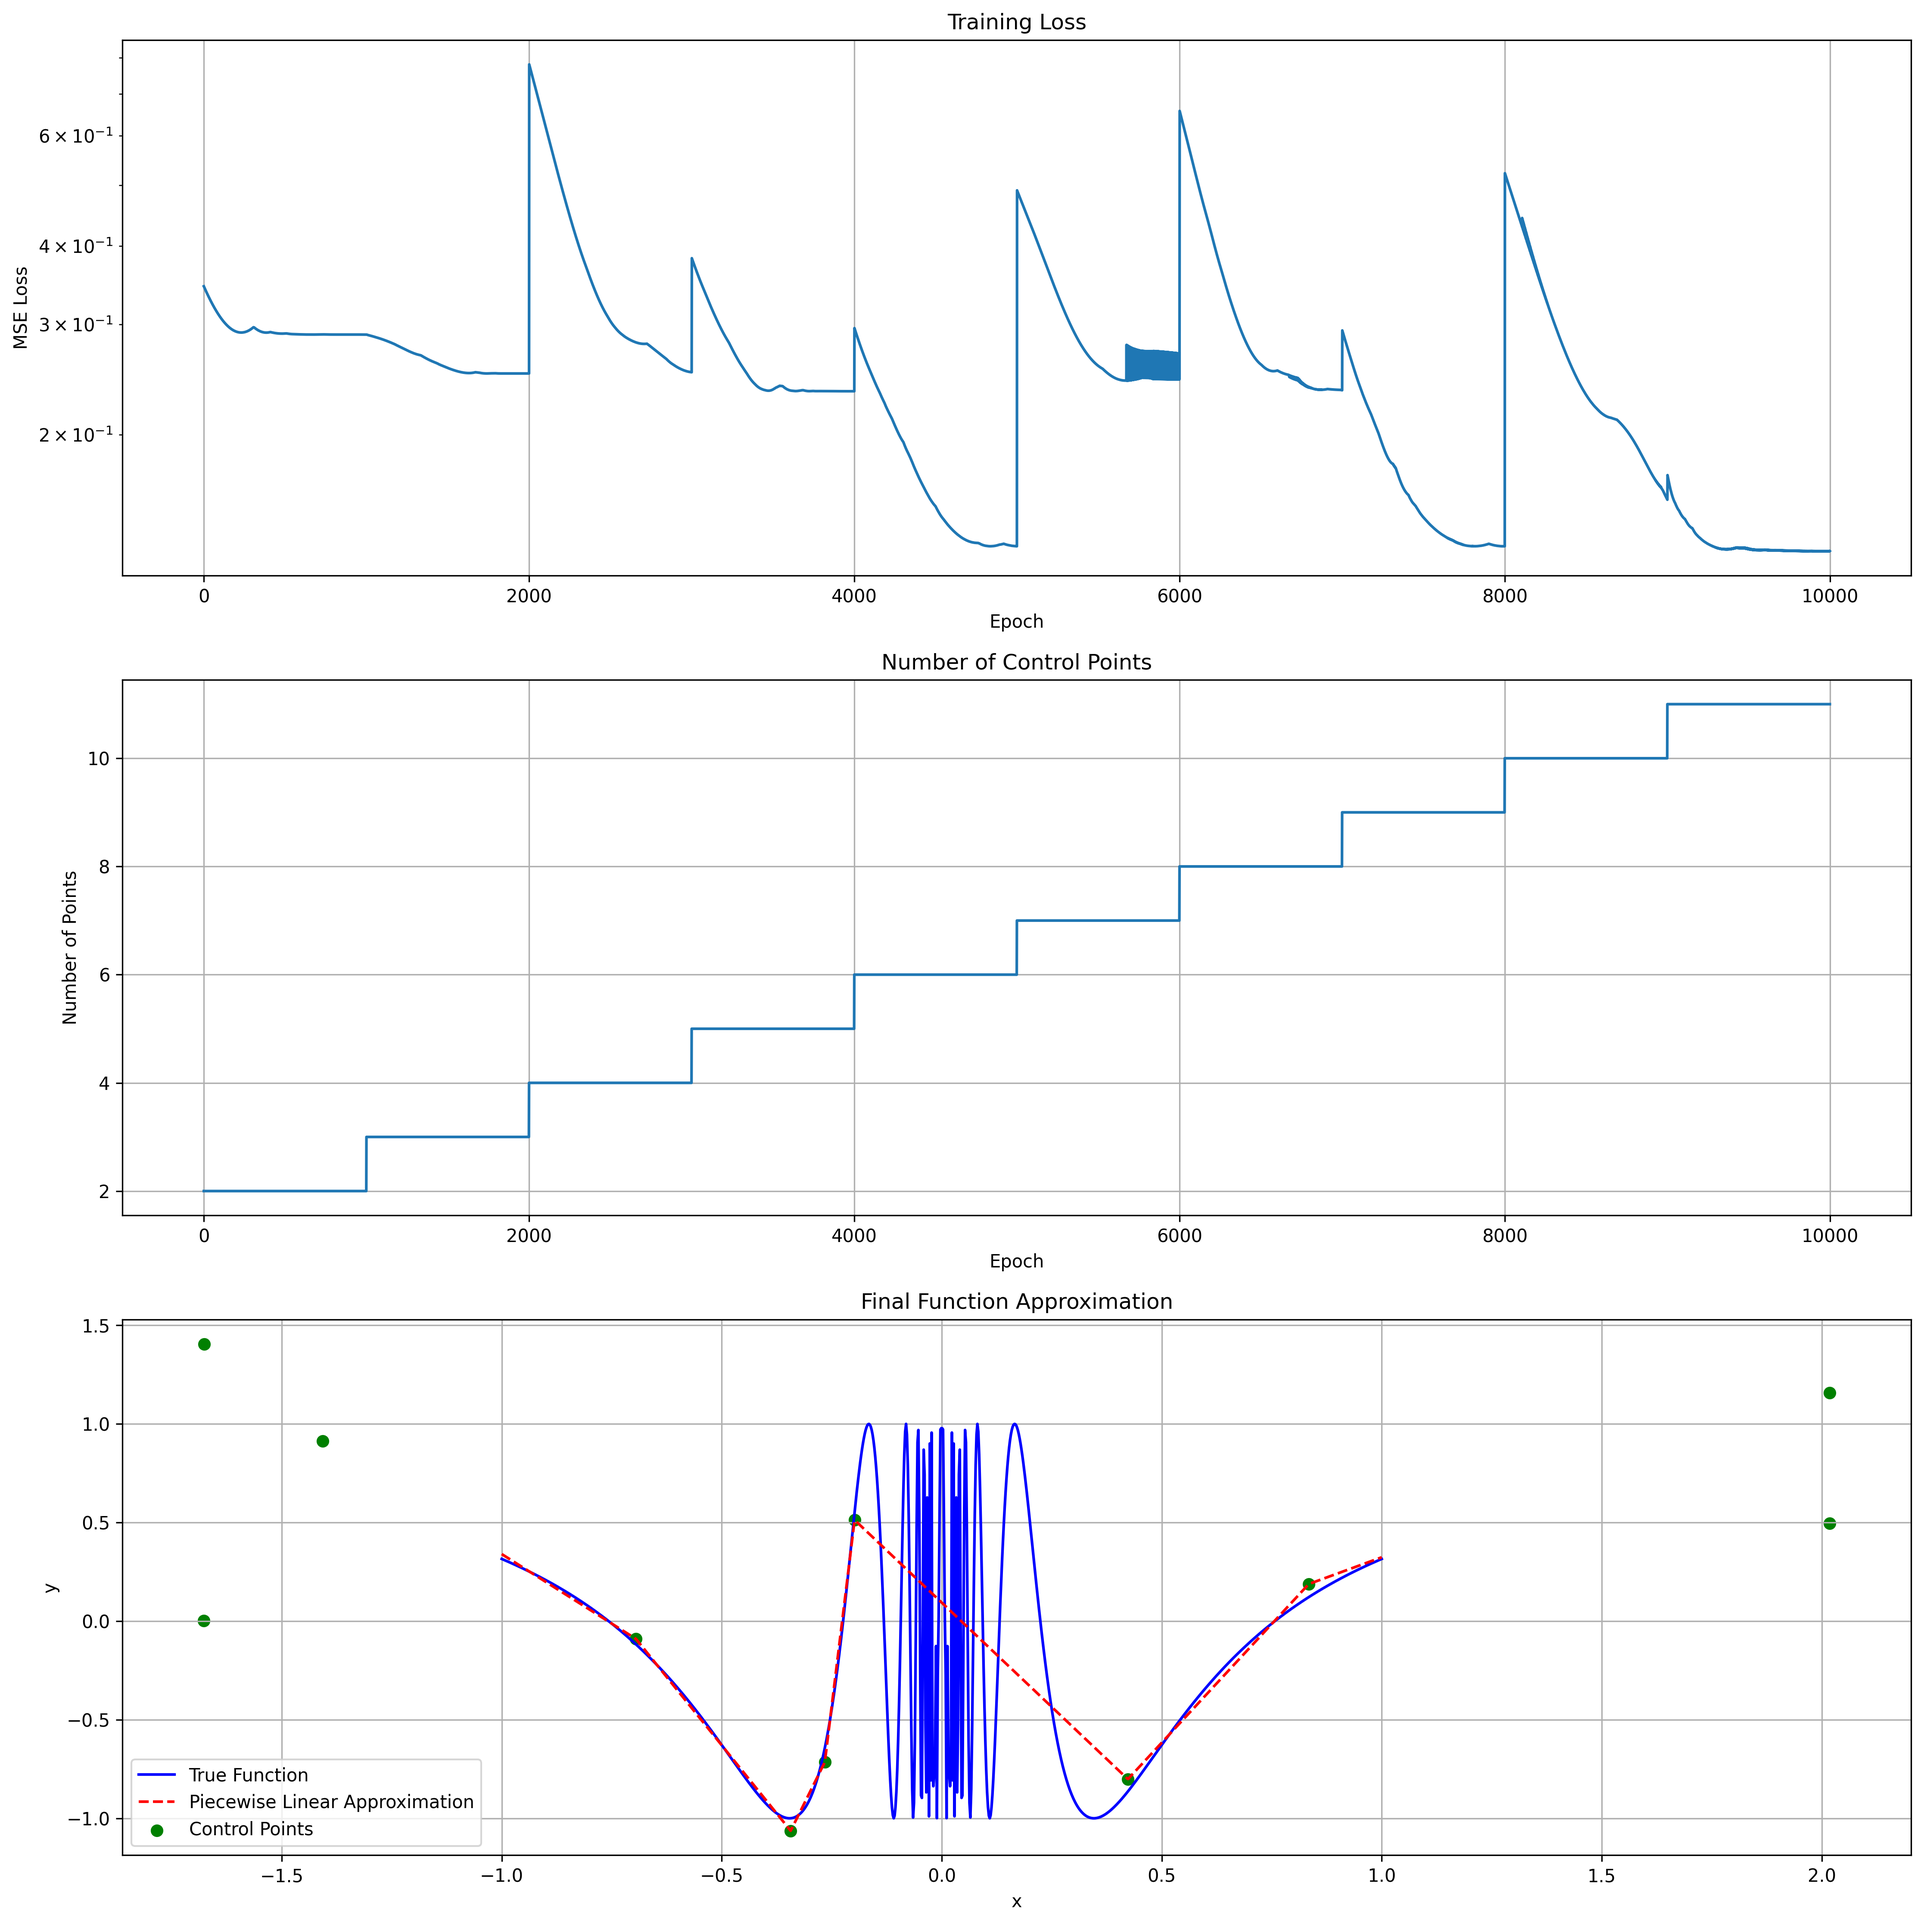
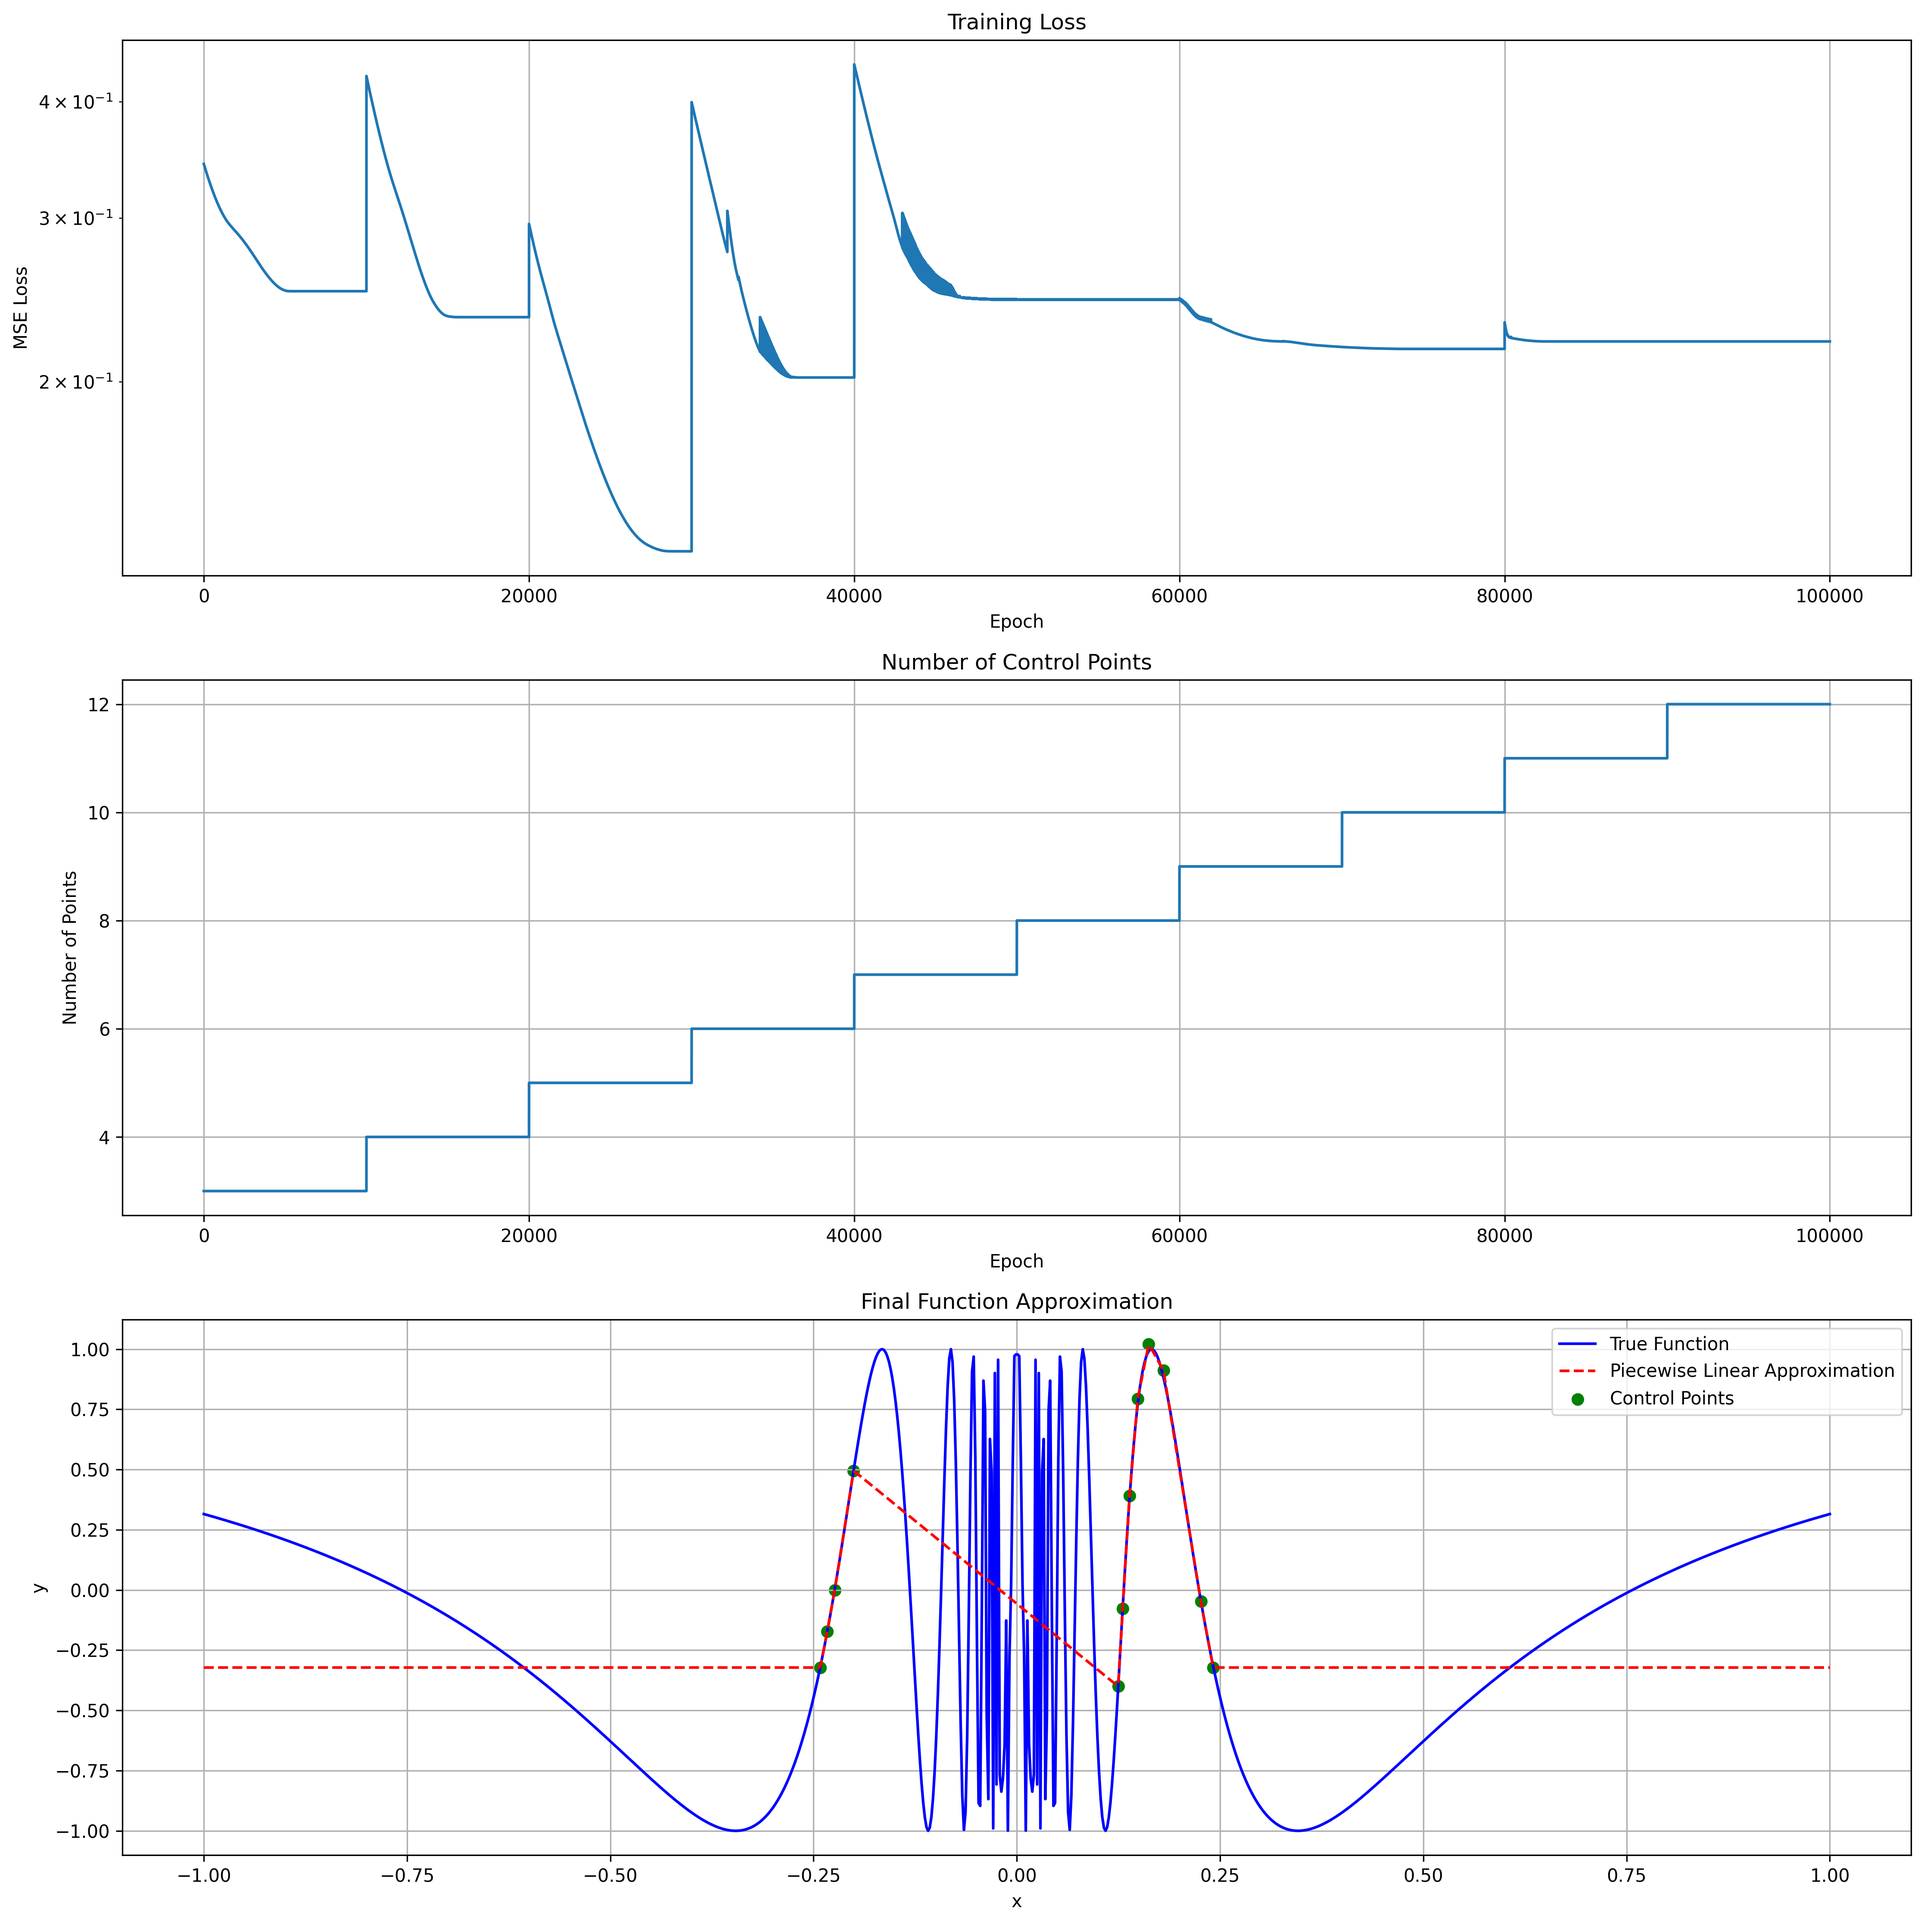
Seems to be working

diff --git a/examples/sine_fitting.py b/examples/sine_fitting.py
@@ -67,7 +67,7 @@ class SineApproximator(nn.Module):
 def generate_optimizer(parameters) :
     #return torch.optim.Adam(parameters,1e-3)
     #return torch.optim.SGD(parameters, lr=1e-2)
-    return Lion(parameters, lr=1e-3)
+    return Lion(parameters, lr=1e-4)
 
 def compute_grads(x, model):
     output = model(x)
@@ -81,13 +81,13 @@ def compute_grads(x, model):
     
 
 # Training parameters
-initial_points = 2  # Number of points in piecewise function
+initial_points = 3  # Number of points in piecewise function
 max_points = 50    # Maximum number of points to add
-points_add_frequency = 1000  # Add a point every N epochs
+points_add_frequency = 2000  # Add a point every N epochs
 model = SineApproximator(initial_points)
 criterion = nn.MSELoss()
 optimizer = generate_optimizer(model.parameters())
-num_epochs = 10000
+num_epochs = 100000
 
 # Save initial state
 save_progress_plot(model, x, y, 0, float('inf'), 'initial')
@@ -111,11 +111,11 @@ for epoch in range(num_epochs):
     if epoch > 0 and epoch % points_add_frequency == 0 and model.piecewise.num_points < max_points:
         # Try each split strategy in turn
         abs_grad = compute_grads(x, model)
-        print('abs_grad', abs_grad)
+        #print('abs_grad', abs_grad)
         strategy = 2 #(epoch // points_add_frequency) % 3
         success = model.piecewise.add_point_at_max_error(abs_grad=abs_grad,split_strategy=strategy)
         #print('split_strategy', strategy)
-        if False:#success:
+        if success:
             print(f'Epoch {epoch}: Added point using strategy {strategy}. '
                   f'Now using {model.piecewise.num_points} points')
             # Create new optimizer since parameters have changed

diff --git a/non_uniform_piecewise_layers/piecewise_linear.py b/non_uniform_piecewise_layers/piecewise_linear.py
@@ -31,7 +31,7 @@ class NonUniformPiecewiseLinear(nn.Module):
         self.num_points = num_points
 
         # Register buffer for absolute gradient accumulation
-        self.register_buffer('abs_grad_accumulation', None)
+        #self.register_buffer('abs_grad_accumulation', None)
         
         # Register the hook for gradient accumulation
         """
